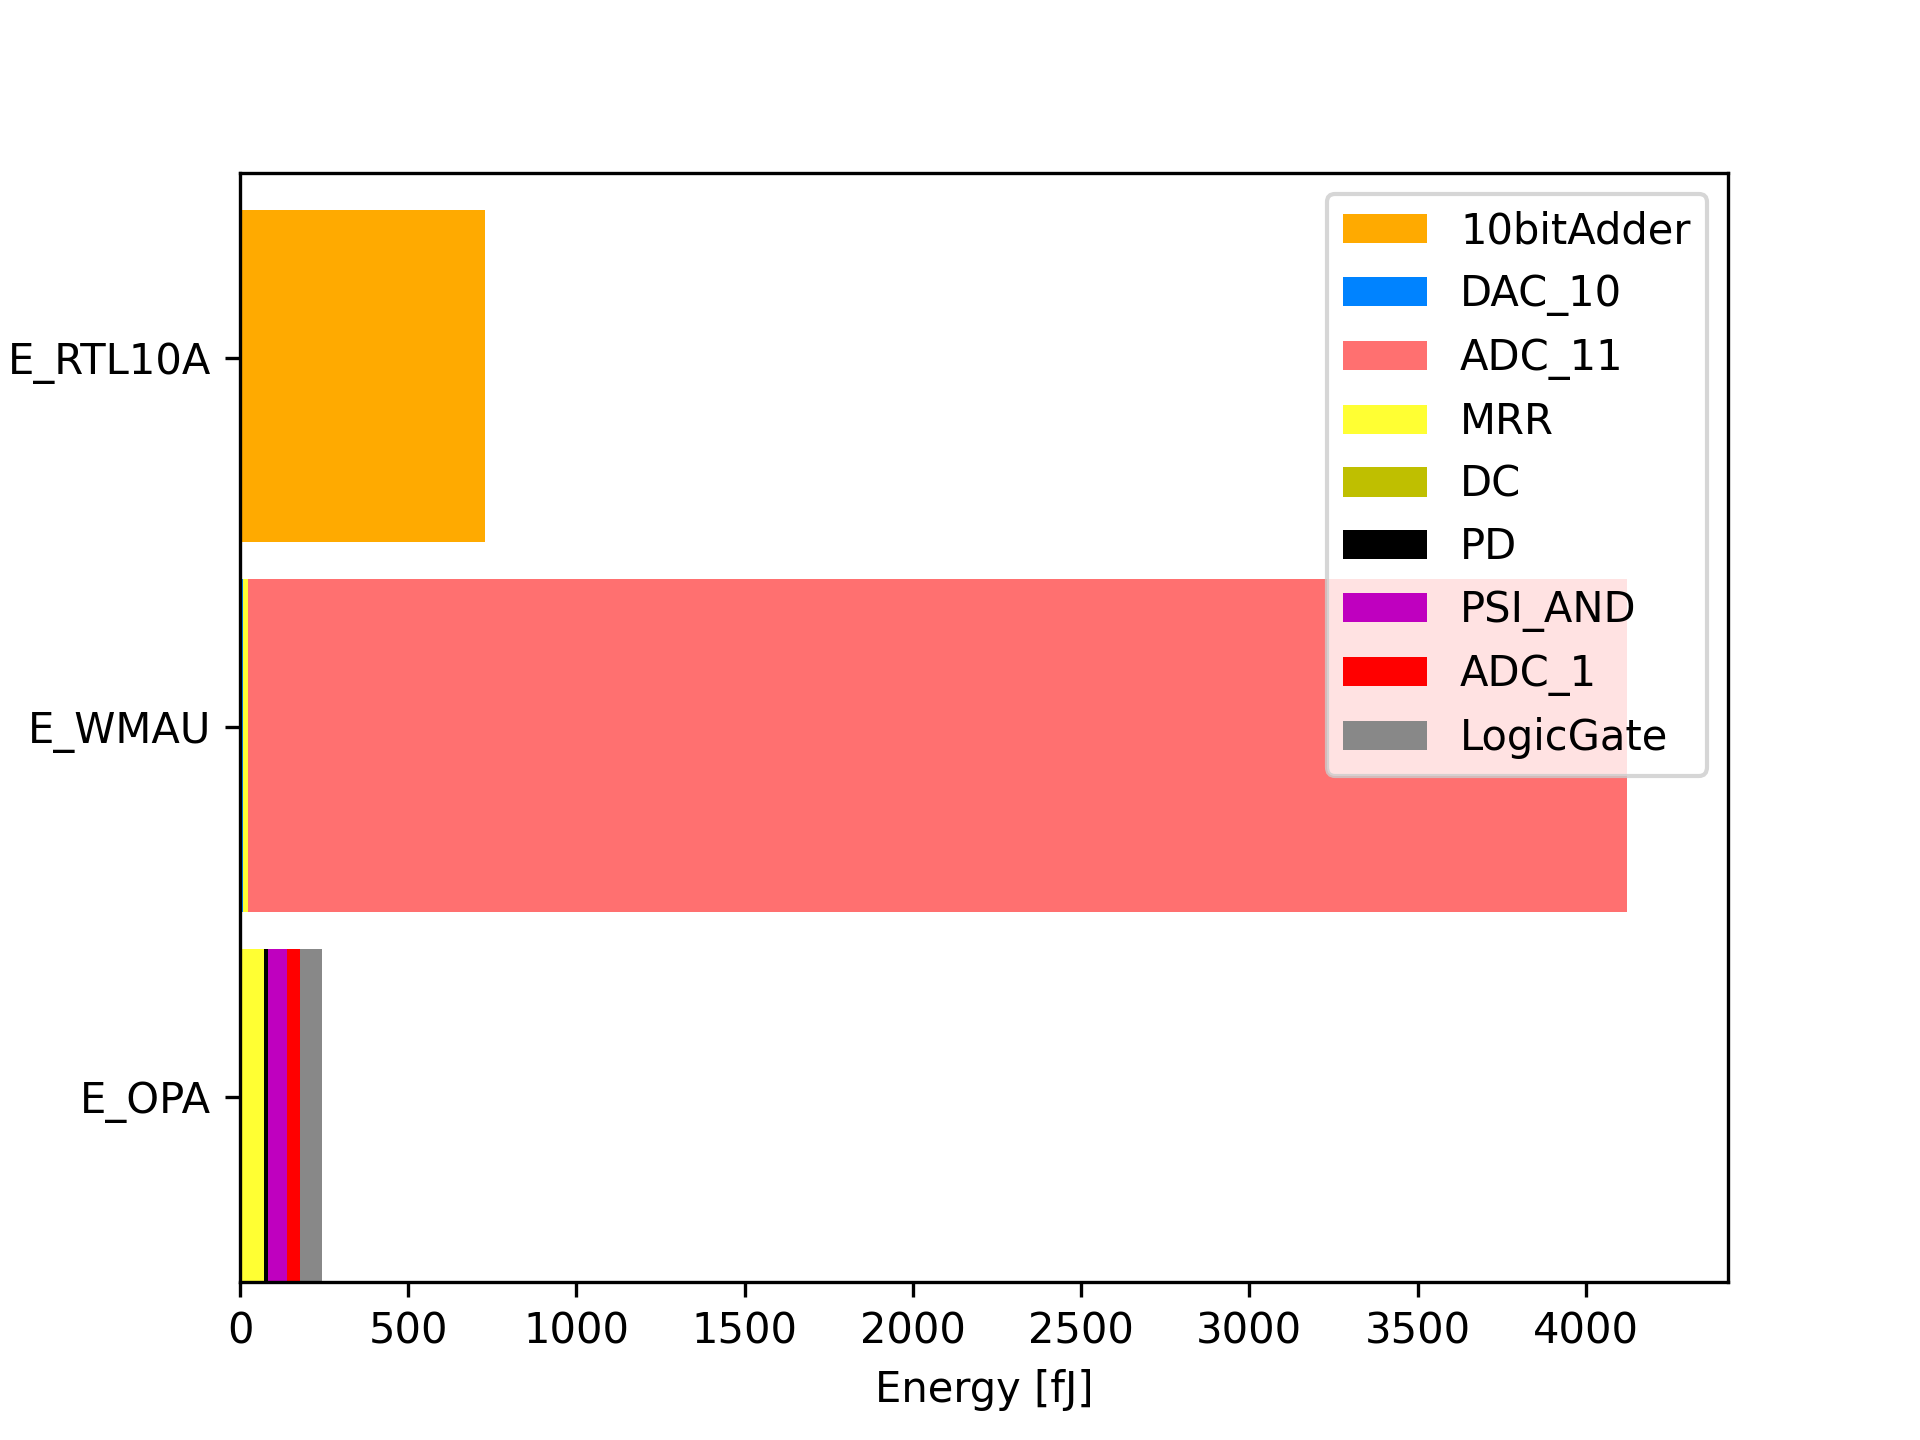
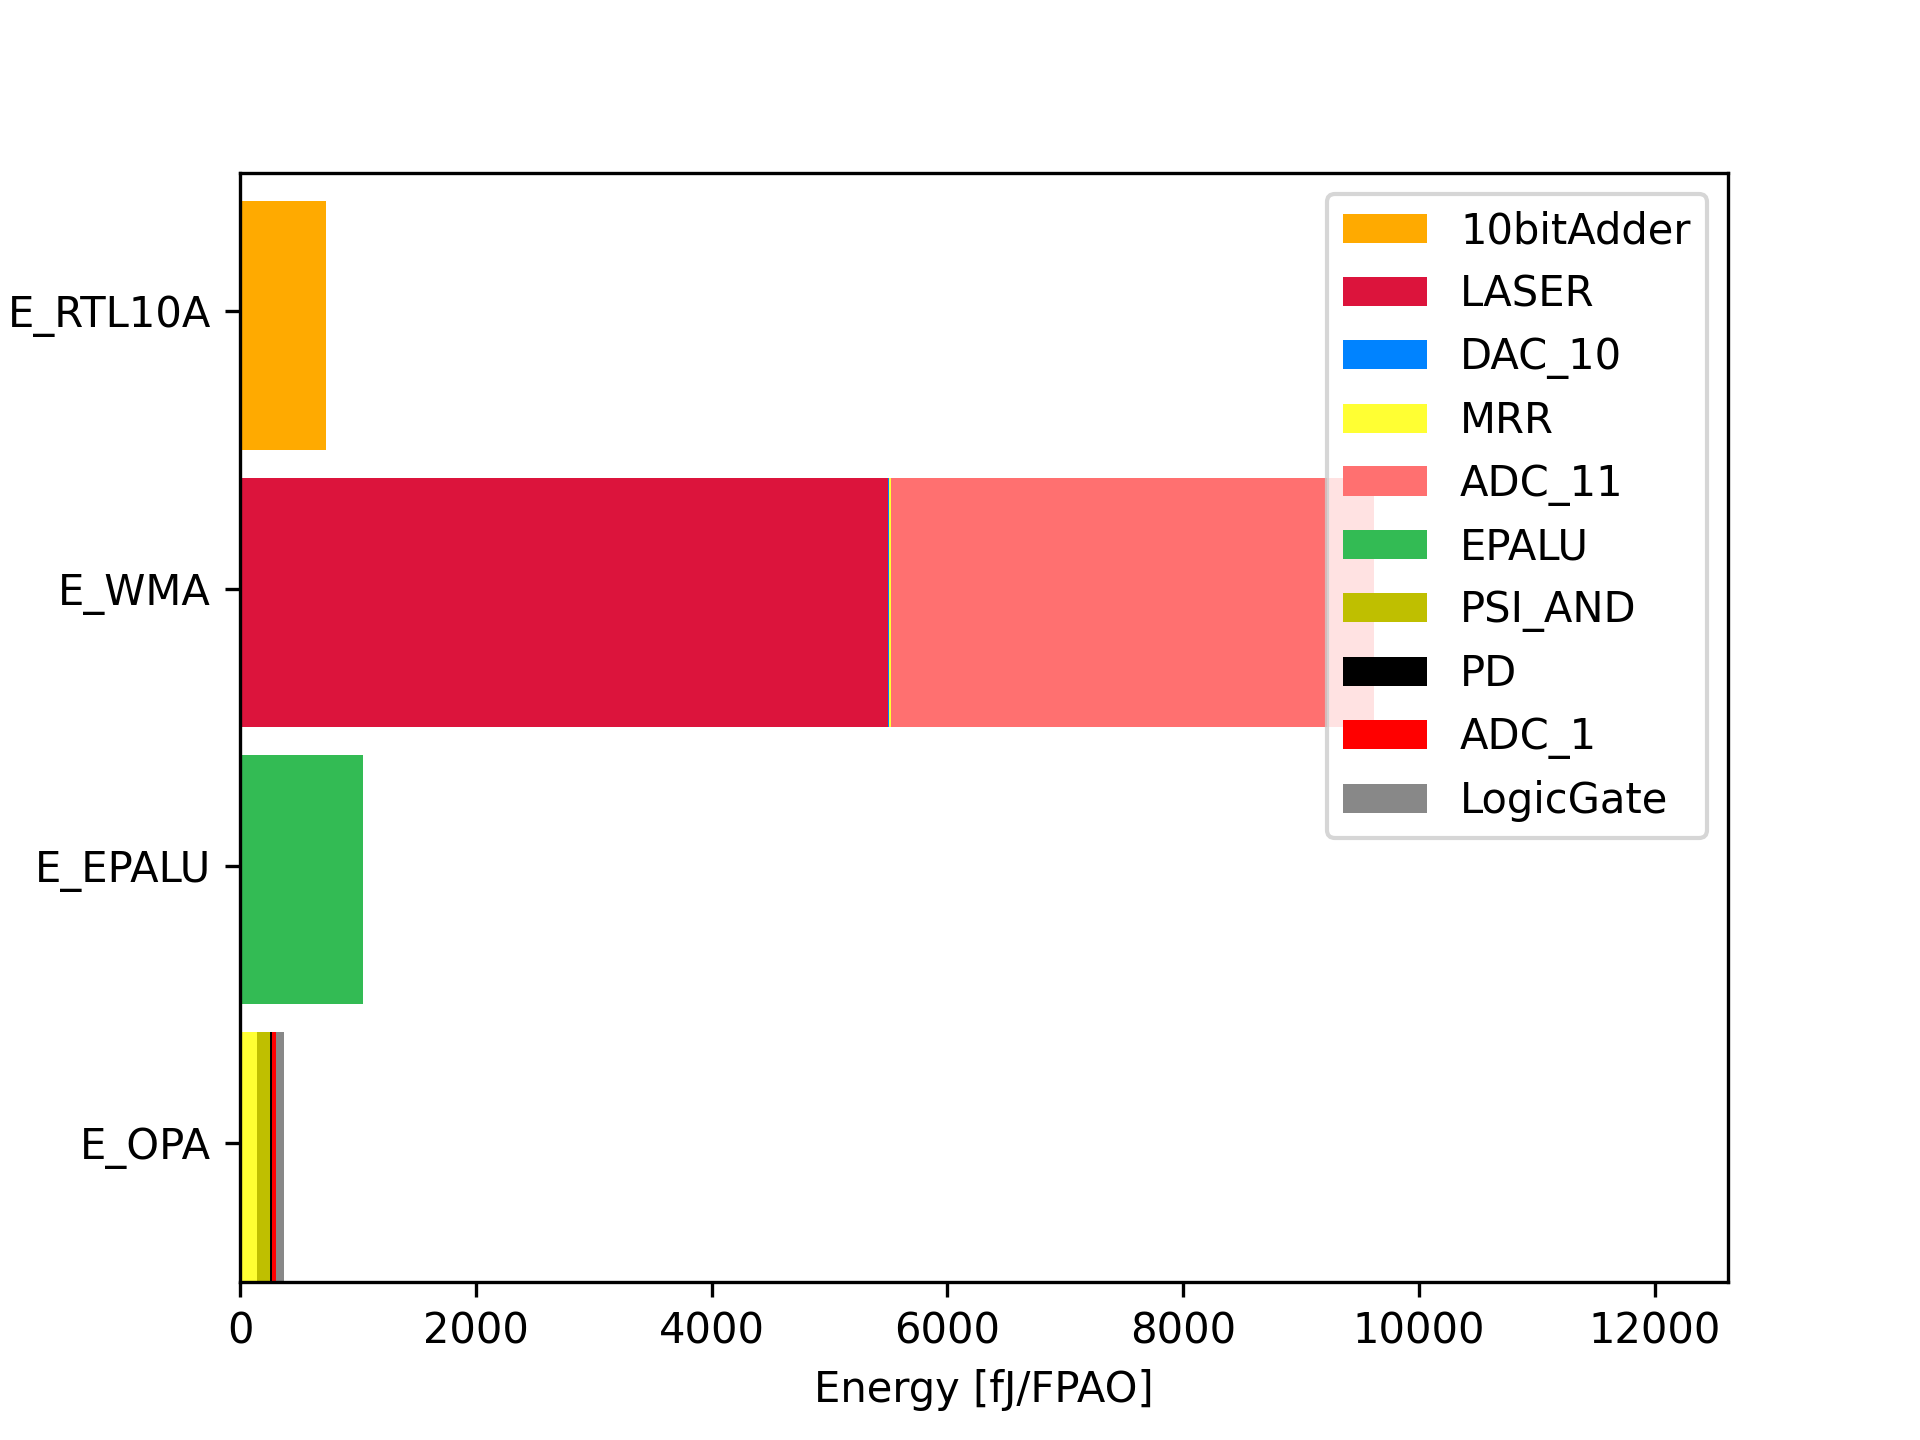
0307

diff --git a/optics-analyze/optics-analyze-consumption.py b/optics-analyze/optics-analyze-consumption.py
@@ -36,6 +36,8 @@ p_mrr	7
 """
 
 # [fJ/bit]
+p_laserofOPA = 0.530
+p_laserofWMA = 5500.0
 p_mzi = 32.4
 p_dc = 0.0
 p_ps = 0.0
@@ -50,95 +52,106 @@ p_lg = 1.79 / 336.7 / 2516* 1000000 # 2.113 fJ/bit
 
 
 
-p_WMAU:float = p_dac10 *2 + p_mrr*2 + p_adc11 
-p_OPNA:float = p_adc1 *10 +p_mrr*10 + p_dc*17 +p_pd*10+ p_psi*34 + p_lg*30
+p_WMAU:float = p_laserofWMA + p_dac10 *2 + p_mrr*2 + p_adc11 + p_pd
+p_OPNA:float = p_laserofOPA + p_adc1 *10 +2* (p_mrr*10 + 17*p_ps +p_dc*17+ p_psi*34)  + p_pd*10 + p_lg*30
 
 import numpy as np
 
 # p_WMAとp_OPAの内訳
-components_WMAU = ['DAC_10', 'MRR', 'ADC_11']
-power_WMAU = [p_dac10 * 2, p_mrr * 2, p_adc11]
+components_WMAU = ['LASER','DAC_10', 'MRR', 'ADC_11']
+power_WMAU = [p_laserofWMA , p_dac10 * 2, p_mrr * 2, p_adc11]
 
-components_OPNA = [ 'MRR', 'DC','PD', 'PSI_AND','ADC_1', 'LogicGate']
-power_OPNA = [ p_mrr * 10, p_dc * 17,p_pd*10, p_psi * 34, p_adc1 * 10, p_lg*30 ]
+components_OPNA = [ 'LASER' , 'MRR','PSI_AND' ,'PD','ADC_1', 'LogicGate']
+power_OPNA = [ p_laserofOPA, p_mrr * 20 , p_psi * 68, p_pd*10, p_adc1 * 10, p_lg*30 ]
 
 # 帯グラフの描画
 fig, ax = plt.subplots()
 
 # ~~~ with EPALU version ~~~ #
 
-# # # p_ebfa_fJperFPAOの描画
-# ## 電気回路の割合を帯グラフで描画する
-# p_ebfa = 1.79 #mW 
-# p_ebfa_fJperFPAO = p_ebfa / 336.7 *1000.0 *1000.0 #fJ/FPAO
-# p_e10ad_fJperFPAO = p_ebfa_fJperFPAO * (345/(905+96+354+138+38+345+609+31))
-# p_ebfa_else_fJperFPAO = p_ebfa_fJperFPAO - p_e10ad_fJperFPAO
-# # ax.broken_barh([(0, p_ebfa_else_fJperFPAO)], (11, 10), facecolors='#00ff00', label='else')
-# ax.broken_barh([(0, p_e10ad_fJperFPAO)], (30, 9), facecolors='#ffaa00', label='10bitAdder')
-
-
-
-# # p_WMAUの描画
-# ax.broken_barh([(0, power_WMAU[0])], (20, 9), facecolors='#0083ff', label=components_WMAU[0])
-# ax.broken_barh([(power_WMAU[0], power_WMAU[1])], (20, 9), facecolors='#ffff33')
-# ax.broken_barh([(sum(power_WMAU[:2]), power_WMAU[2])], (20, 9), facecolors='#ff7070', label=components_WMAU[2])
-
-# # p_epalu の描画
-# p_epalu = 1.0445 * 1000.0 #fJ/FPAO
-# ax.broken_barh([(0, p_epalu)], (0, 9), facecolors='#33bb54', label='EPALU')
-
-# # p_OPNAの描画
-# start :float = 0
-# colors = ['#ffff33', 'y','#000000', 'm','#ff0000','#888888']
-# for i, power in enumerate(power_OPNA):
-#     ax.broken_barh([(start, power)], (10, 9), facecolors=colors[i], label=components_OPNA[i])
-#     start += power
-
-# # グラフの設定
-# ax.set_ylim(0, 40)
-# ax.set_xlim(0, max(sum(power_WMAU)+1000, sum(power_OPNA)+1000, p_e10ad_fJperFPAO+1000 ))
-# ax.set_xlabel('Energy [fJ/FPAO]')
-# ax.set_yticks([5, 15, 25, 35])
-# ax.set_yticklabels(['E_EPALU','E_OPA', 'E_WMA', 'E_RTL10A' ])
-# ax.grid(False)
-
-
-
-
-# ~~~ without EPALU version ~~~ #
-
-## p_ebfa_fJperFPAOの描画
+# # p_ebfa_fJperFPAOの描画
 ## 電気回路の割合を帯グラフで描画する
 p_ebfa = 1.79 #mW 
 p_ebfa_fJperFPAO = p_ebfa / 336.7 *1000.0 *1000.0 #fJ/FPAO
 p_e10ad_fJperFPAO = p_ebfa_fJperFPAO * (345/(905+96+354+138+38+345+609+31))
 p_ebfa_else_fJperFPAO = p_ebfa_fJperFPAO - p_e10ad_fJperFPAO
 # ax.broken_barh([(0, p_ebfa_else_fJperFPAO)], (11, 10), facecolors='#00ff00', label='else')
-ax.broken_barh([(0, p_e10ad_fJperFPAO)], (20, 9), facecolors='#ffaa00', label='10bitAdder')
+ax.broken_barh([(0, p_e10ad_fJperFPAO)], (30, 9), facecolors='#ffaa00', label='10bitAdder')
 
 
 
-# p_WMAUの描画
-ax.broken_barh([(0, power_WMAU[0])], (10, 9), facecolors='#0083ff', label=components_WMAU[0])
-ax.broken_barh([(power_WMAU[0], power_WMAU[1])], (10, 9), facecolors='#ffff33')
-ax.broken_barh([(sum(power_WMAU[:2]), power_WMAU[2])], (10, 9), facecolors='#ff7070', label=components_WMAU[2])
+# p_WMAの描画
+start = 0.0
+color = ['#DC143C','#0083ff','#ffff33', '#ff7070']
+for i , power in enumerate(power_WMAU):
+    ax.broken_barh([(start, power)], (20, 9), facecolors=color[i], label=components_WMAU[i])
+    start += power
 
+# p_epalu の描画
+p_epalu = 1.0445 * 1000.0 #fJ/FPAO
+ax.broken_barh([(0, p_epalu)], (10, 9), facecolors='#33bb54', label='EPALU')
 
 # p_OPAの描画
 start = 0.0
-colors = ['#ffff33', 'y','#000000', 'm','#ff0000','#888888']
+colors = ['#DC143C','#ffff33', 'y','#000000' ,'#ff0000','#888888']
 
 for i, power in enumerate(power_OPNA):
-    ax.broken_barh([(start, power)], (0, 9), facecolors=colors[i], label=components_OPNA[i])
+    if components_OPNA[i] == 'LASER' or components_OPNA[i] == 'MRR':
+        ax.broken_barh([(start, power)], (0, 9), facecolors=colors[i])
+    else : 
+        ax.broken_barh([(start, power)], (0, 9), facecolors=colors[i], label=components_OPNA[i])
     start += power
-    
-# グラフの設定 without_EPALU
-ax.set_ylim(0, 30)
-ax.set_xlim(0, max(sum(power_WMAU)+300, sum(power_OPNA)+300, p_e10ad_fJperFPAO+300 ))
-ax.set_xlabel('Energy [fJ]')
-ax.set_yticks([5, 15,25])
-ax.set_yticklabels(['E_OPA', 'E_WMAU', 'E_RTL10A' ])
+
+# グラフの設定
+ax.set_ylim(0, 40)
+ax.set_xlim(0, max(sum(power_WMAU)+3000, sum(power_OPNA)+3000, p_e10ad_fJperFPAO+3000 ))
+ax.set_xlabel('Energy [fJ/FPAO]')
+ax.set_yticks([5, 15, 25, 35])
+ax.set_yticklabels(['E_OPA','E_EPALU', 'E_WMA', 'E_RTL10A' ])
 ax.grid(False)
+
+
+
+
+# ~~~ without EPALU version ~~~ #
+
+# # p_ebfa_fJperFPAOの描画
+# # 電気回路の割合を帯グラフで描画する
+# p_ebfa = 1.79 #mW 
+# p_ebfa_fJperFPAO = p_ebfa / 336.7 *1000.0 *1000.0 #fJ/FPAO
+# p_e10ad_fJperFPAO = p_ebfa_fJperFPAO * (345/(905+96+354+138+38+345+609+31))
+# p_ebfa_else_fJperFPAO = p_ebfa_fJperFPAO - p_e10ad_fJperFPAO
+# # ax.broken_barh([(0, p_ebfa_else_fJperFPAO)], (11, 10), facecolors='#00ff00', label='else')
+# ax.broken_barh([(0, p_e10ad_fJperFPAO)], (20, 9), facecolors='#ffaa00', label='10bitAdder')
+
+
+
+# # p_WMAの描画
+# start = 0.0
+# color = ['#DC143C','#0083ff','#ffff33', '#ff7070']
+# for i , power in enumerate(power_WMAU):
+#     ax.broken_barh([(start, power)], (10, 9), facecolors=color[i], label=components_WMAU[i])
+#     start += power
+
+
+# # p_OPAの描画
+# start = 0.0
+# colors = ['#DC143C','#ffff33', 'y','#000000' ,'#ff0000','#888888']
+
+# for i, power in enumerate(power_OPNA):
+#     if components_OPNA[i] == 'LASER' or components_OPNA[i] == 'MRR':
+#         ax.broken_barh([(start, power)], (0, 9), facecolors=colors[i])
+#     else : 
+#         ax.broken_barh([(start, power)], (0, 9), facecolors=colors[i], label=components_OPNA[i])
+#     start += power
+
+
+# ax.set_ylim(0, 30)
+# ax.set_xlim(0, max(sum(power_WMAU)+300, sum(power_OPNA)+300, p_e10ad_fJperFPAO+300 ))
+# ax.set_xlabel('Energy [fJ]')
+# ax.set_yticks([5, 15,25])
+# ax.set_yticklabels(['E_OPA', 'E_WMA', 'E_RTL10A' ])
+# ax.grid(False)
 
 # ~~~ end of without EPALU version ~~~ #
 
